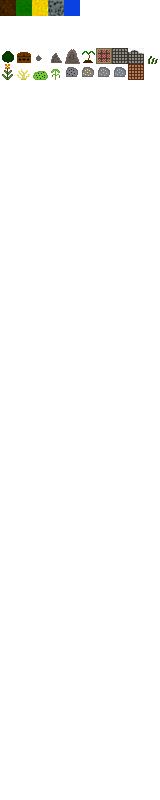
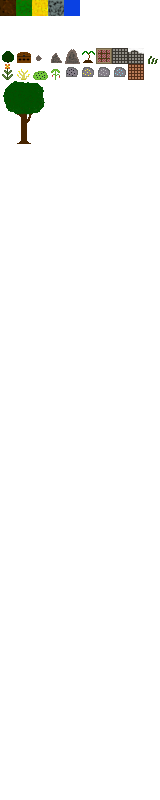
add Tree object type to game

Changed region(s): [[0.0312, 0.0938, 0.2812, 0.1875]]

diff --git a/Islands/ObjectDef.hpp b/Islands/ObjectDef.hpp
@@ -50,28 +50,54 @@ inline std::string ObjectTypeToString(ObjectType type)
 class ObjectDef
 {
 	ObjectType type;
-
 	std::string ObjName;
 	sf::Vector2i ObjSize;
 	bool ObjCollision;
 	bool ObjDestructible;
 	Yield ObjYield;
-public:
-	ObjectType getType() const { return type; }
-	std::string getName() const { return ObjName; }
-	sf::Vector2i getSize() const { return ObjSize; }
-	bool getCollision() const { return ObjCollision; }
-	bool getDestructible() const { return ObjDestructible; }
-	Yield getYield() const { return ObjYield; }
 
+public:
 	ObjectDef()
 		:ObjDestructible(false), ObjName(), ObjSize(), ObjYield(Yield("", 0)), ObjCollision(false), type(ObjectType::Default)
 	{}
+	ObjectDef(const ObjectDef &other) = delete;
+	ObjectDef(ObjectDef &&other) = delete;
 	ObjectDef(const std::string &Name, const sf::Vector2i &Size, const Yield &yield,
 		bool Destructible, bool Collision, ObjectType type = ObjectType::Default)
 		:ObjDestructible(Destructible), ObjName(Name), ObjSize(Size), ObjYield(yield), type(type), ObjCollision(Collision)
 	{}
-	virtual ~ObjectDef(){}
+	virtual ~ObjectDef() = default;
+
+
+	ObjectDef &operator=(const ObjectDef &other) = delete;
+	ObjectDef &operator=(ObjectDef &&other) = delete;
+
+
+	ObjectType getType() const
+	{
+		return type;
+	}
+	std::string getName() const
+	{
+		return ObjName;
+	}
+	sf::Vector2i getSize() const
+	{
+		return ObjSize;
+	}
+	bool getCollision() const
+	{
+		return ObjCollision;
+	}
+	bool getDestructible() const
+	{
+		return ObjDestructible;
+	}
+	Yield getYield() const
+	{
+		return ObjYield;
+	}
+
 };
 
 class ChestDef : public ObjectDef
@@ -79,26 +105,39 @@ class ChestDef : public ObjectDef
 	unsigned Capacity;
 
 public:
-	unsigned getCapacity() const { return Capacity; }
-
+	ChestDef() = delete;
 	ChestDef(const std::string &Name, const sf::Vector2i &Size,
 		bool HaveCollision, const Yield &yield, bool Destructible, unsigned ChestCapacity)
 		:ObjectDef(Name, Size, yield, Destructible, HaveCollision, ObjectType::Chest), Capacity(ChestCapacity)
 	{}
 	~ChestDef() = default;
+
+
+	unsigned getCapacity() const
+	{
+		return Capacity;
+	}
+
 };
 
 class CraftingPlaceDef : public ObjectDef
 {
 	std::vector<RecipeDef> Recipes;
-public:
-	const std::vector<RecipeDef> & getRecipes() const { return Recipes; }
 
+public:
+	CraftingPlaceDef() = delete;
 	CraftingPlaceDef(const std::string &Name, const sf::Vector2i &Size,
 		const Yield &yield, bool Destructible, bool HaveCollision, const std::vector<RecipeDef> &RecipeVect)
 		:ObjectDef(Name, Size, yield, Destructible, HaveCollision, ObjectType::CraftingPlace), Recipes(RecipeVect)
 	{}
 	~CraftingPlaceDef() = default;
+
+
+	const std::vector<RecipeDef> & getRecipes() const
+	{
+		return Recipes;
+	}
+
 };
 
 class SaplingDef : public ObjectDef
@@ -107,41 +146,46 @@ class SaplingDef : public ObjectDef
 	std::string GrowTo;
 
 public:
-	float getGrowTime() const { return GrowTime; }
-	std::string getGrowTo() const { return GrowTo; }
-
+	SaplingDef() = delete;
 	SaplingDef(const std::string &Name, const sf::Vector2i &Size, bool HaveCollision,
 		const Yield &yield, bool Destructible, float TimeForGrow, std::string &For)
 		:ObjectDef(Name, Size, yield, Destructible, HaveCollision, ObjectType::Sapling), GrowTo(For), GrowTime(TimeForGrow)
 	{}
 	~SaplingDef() = default;
+
+
+	float getGrowTime() const
+	{
+		return GrowTime;
+	}
+	std::string getGrowTo() const
+	{
+		return GrowTo;
+	}
+
 };
 
 class SpawnerDef : public ObjectDef
 {
 	float SpawnTime;
 	std::string MonsterName;
-public:
-	float getSpawnTime() const { return SpawnTime; }
-	std::string getMonsterName() const { return MonsterName; }
 
+public:
+	SpawnerDef() = delete;
 	SpawnerDef(const std::string &Name, const sf::Vector2i &Size, bool HaveCollision,
 		const Yield &yield, bool Destructible, float TimeForSpawn, const std::string &MonsterToSpawn)
 		:ObjectDef(Name, Size, yield, Destructible, HaveCollision, ObjectType::Spawner), SpawnTime(TimeForSpawn), MonsterName(MonsterToSpawn)
 	{}
 	~SpawnerDef() = default;
-};
 
-class TreeDef : public ObjectDef
-{
-	sf::Vector2i treeSize;
 
-public:
-	sf::Vector2i getSize() const { return treeSize; }
+	float getSpawnTime() const
+	{
+		return SpawnTime;
+	}
+	std::string getMonsterName() const
+	{
+		return MonsterName;
+	}
 
-	TreeDef(const std::string &Name, const sf::Vector2i &Size, const Yield &yield,
-		bool Destructible, bool HaveCollision, const sf::Vector2i &TreeSize)
-		:ObjectDef(Name, Size, yield, Destructible, HaveCollision, ObjectType::Tree), treeSize(TreeSize)
-	{}
-	~TreeDef() = default;
 };

diff --git a/Islands/Engine.cpp b/Islands/Engine.cpp
@@ -413,25 +413,30 @@ void Engine::drawObject(size_t &preObjectId, const sf::Vector2u &objectIndex, sf
 	if (ObjectID > Objects->getSize()) { return; }
 
 	shp.setPosition(sf::Vector2f(World::getNormalPosition(static_cast<sf::Vector2i>(objectIndex))));
-	if(preObjectId != ObjectID)
-	{
-		shp.setTexture(mediaContainer.getTexture(TextureContainer::ObjectTextures, ObjectID), true);
-	}
-	preObjectId = ObjectID;
-	window.draw(shp);
+	bool isTree = false;
+	isTree = (Objects->getDefinition(ObjectID)->getType() == ObjectType::Tree);
 
-	/*
-	int sizeY = Objects->getDefinition(ObjectID)->getSize().y;
-	if (sizeY < 0)
+	if (preObjectId != ObjectID)
 	{
-		shp.setPosition(sf::Vector2f(World::getNormalPosition(sf::Vector2i(objectIndex.x, objectIndex.y+(sizeY+1)))));
-		shp.setSize(sf::Vector2f(TILE_SIZE, TILE_SIZE * (-sizeY)));
-		shp.setTexture(mediaContainer.getTexture(TextureContainer::ObjectTextures, ObjectID), true);
-		window.draw(shp);
 		shp.setSize(sf::Vector2f(TILE_SIZE, TILE_SIZE));
-		return;
+		shp.setTexture(mediaContainer.getTexture(TextureContainer::ObjectTextures, ObjectID), true);
+
+		if (isTree)
+		{
+			shp.move(-TILE_SIZE, -(3.0f * TILE_SIZE));
+			shp.setSize(sf::Vector2f(TILE_SIZE * 3.0f, TILE_SIZE * 4.0f));
+		}
 	}
-	*/
+	else
+	{
+		if (isTree)
+		{
+			shp.move(-TILE_SIZE, -(3.0f * TILE_SIZE));
+		}
+	}
+
+	window.draw(shp);
+	preObjectId = ObjectID;
 }
 
 Engine::Engine(GameVars &v1, unsigned MaxTileDrawRange)
@@ -929,7 +934,7 @@ void Engine::drawPlayerGui(IslandApp & app)
 void Engine::pushItemTextureToRect(const sf::Vector2f &pos, unsigned itemId, sf::RectangleShape & rect)
 {
 	rect.setPosition(pos);
-	if (itemId > 0) { rect.setTexture(mediaContainer.getTexture(TextureContainer::ItemsTextures, itemId)); }
+	if (itemId > 0) { rect.setTexture(mediaContainer.getTexture(TextureContainer::ItemsTextures, itemId), true); }
 	else { rect.setTexture(nullptr); }
 }
 

diff --git a/Islands/Object.hpp b/Islands/Object.hpp
@@ -12,6 +12,7 @@ class Object
 	bool Collision;
 
 public:
+	Object() = delete;
 	Object(unsigned objectId, bool objectCollision, ObjectType objectType = ObjectType::Default)
 		:type(objectType), Id(objectId), Collision(objectCollision)
 	{}
@@ -38,6 +39,7 @@ class SaplingObject : public Object
 	float PlantTime;
 
 public:
+	SaplingObject() = delete;
 	SaplingObject(unsigned objectId, float AtTime)
 		:Object(objectId, false, ObjectType::Sapling), PlantTime(AtTime)
 	{}
@@ -56,6 +58,7 @@ class ChestObject : public Object
 	std::vector<ItemField> Contain;
 
 public:
+	ChestObject() = delete;
 	ChestObject(unsigned objectId, size_t ChestSize)
 		:Object(objectId, true, ObjectType::Chest), Contain(ChestSize)
 	{}
@@ -80,6 +83,7 @@ class CraftingPlaceObject : public Object
 	std::vector<Recipe> Recipes;
 
 public:
+	CraftingPlaceObject() = delete;
 	CraftingPlaceObject(unsigned objectId, const std::vector<Recipe> &ObjectRecipes)
 		:Object(objectId, true, ObjectType::CraftingPlace), Recipes(ObjectRecipes)
 	{

diff --git a/Islands/GameComponentsLoader.hpp b/Islands/GameComponentsLoader.hpp
@@ -138,6 +138,10 @@ public:
 						newObjType = ObjectType::CraftingPlace;
 						LoadRecipeDefFromFile(tempRecipes, std::string(objectsParamNode->value()));
 					}
+					else if (paramName == "TreeDef")
+					{
+						newObjType = ObjectType::Tree;
+					}
 				}
 
 				switch (newObjType)
@@ -149,6 +153,7 @@ public:
 					Objects.push_back(new ChestDef(newObjName, newObjSize, newObjCollision, newObjYield, newObjDestructible, tempUint.back()));
 					break;
 				case ObjectType::Tree:
+					Objects.push_back(new ObjectDef(newObjName, newObjSize, newObjYield, newObjDestructible, newObjCollision, ObjectType::Tree));
 					break;
 				case ObjectType::Sapling:
 					Objects.push_back(new SaplingDef(newObjName, newObjSize, newObjCollision, newObjYield, newObjDestructible, tempFloat.back(), tempString.back()));

diff --git a/Islands/WorldManager.hpp b/Islands/WorldManager.hpp
@@ -207,6 +207,8 @@ public:
 			return true;
 			break;
 		case ObjectType::Tree:
+			ManagementWorld->setLocalMapTileObject(tile, new Object(ObjectId, true, ObjectType::Tree));
+			return true;
 			break;
 		case ObjectType::Sapling:
 			ManagementWorld->setLocalMapTileObject(tile, new SaplingObject(ObjectId, GameClockPtr->getElapsedTime().asSeconds()));
